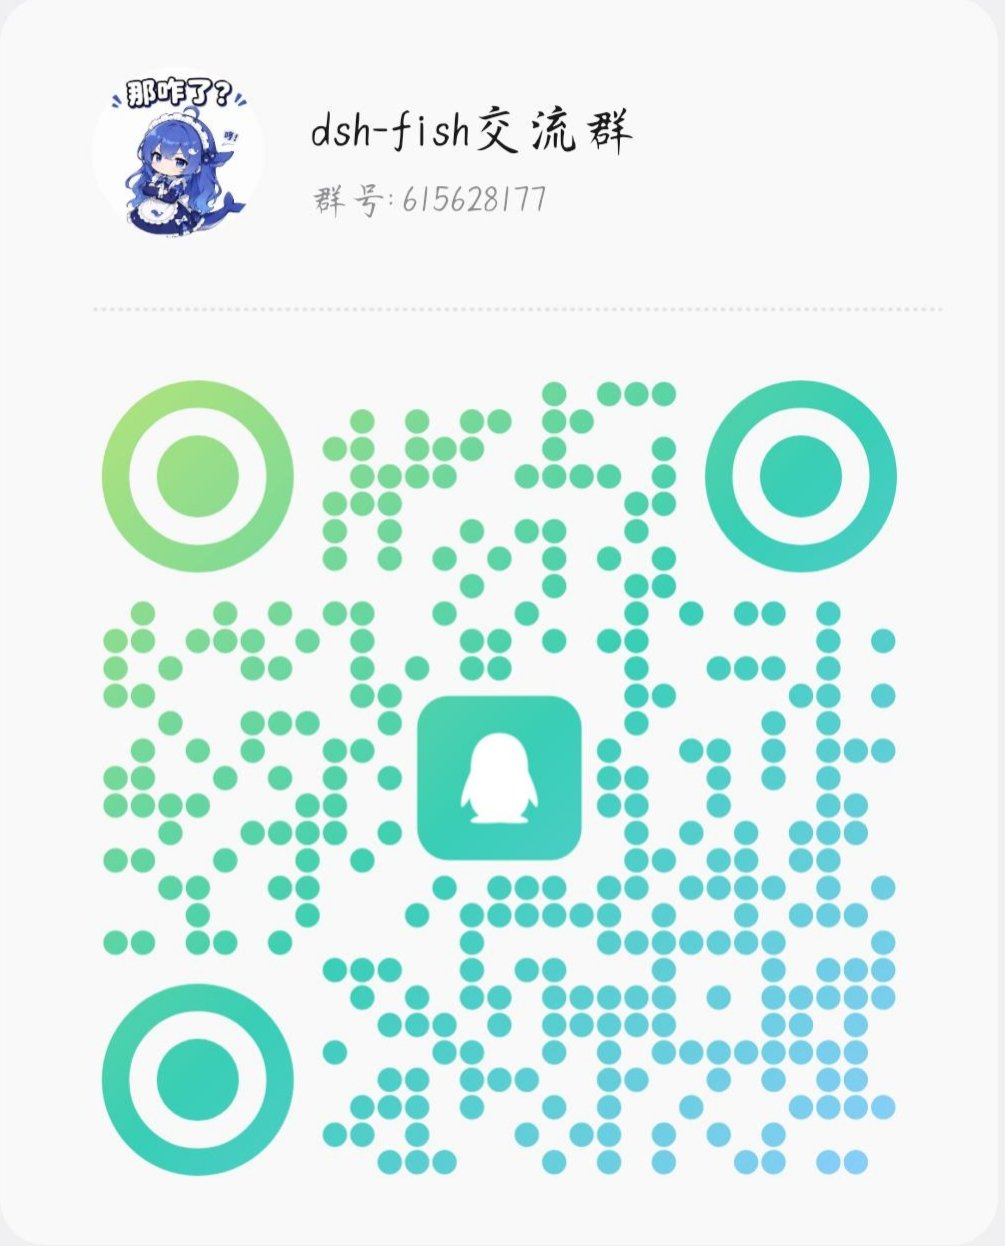
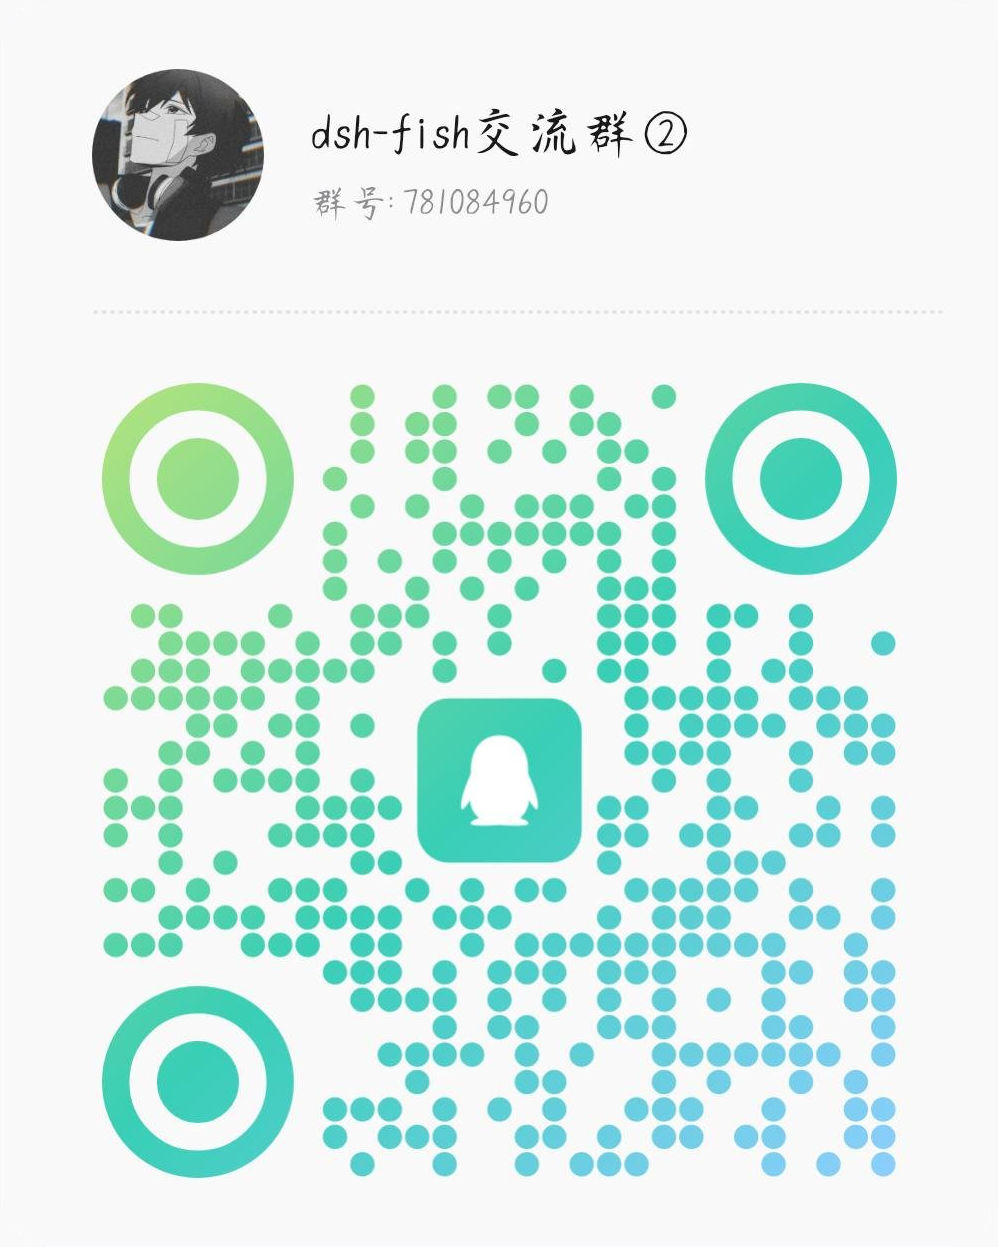
反馈页换成 2 群：新二维码 + 群号 781084960
1 群满了，用户在 2026-11-02 发了新建的 2 群截图。

- media/feedback-qr.jpg：从 1228x2183 的原图里裁出中间的白色卡片
  （实测边界 x 115..1112、y 357..1603 —— 998x1247，比例 0.8003，
  与旧图的 0.8066 基本一致），体积 148060 B（旧图 115230 B）。
  圆角那 47px 原本露着底板灰（240,240,242），按圆角遮罩抹成卡片色
  （249,249,249），四角现在与卡面同色。顺带修掉旧图的老毛病：
  旧图四角也是灰的，而页面上给 img 的 border-radius 只有 10px、
  比图片自带的圆角小，所以一圈灰边会露出来。
- lib/client.js:「群号：615628177」→「群号：781084960」。
- test/ui.test.mjs：那条「群号要在页面上」的断言跟着改，
  否则群号一换测试就红。
- CHANGELOG：0.8.6 顶部那句「一件事」改成「三件事」，补两小节——
  「扫码点下去没反应时，界面上得说一句为什么」和「交流群换到 2 群了」。

文件名仍是 feedback-qr.jpg —— /media 是白名单路由
（lib/observe.js:860 的枚举正则），不能新增文件名。

diff --git a/dsh-fish/lib/client.js b/dsh-fish/lib/client.js
@@ -2962,8 +2962,9 @@ window.__ModuleLoader__.load({
                 border: '0.5px solid var(--dsw-alias-border-l2)',
               },
             }),
+            // 2026-11-02：1 群满了，换成新建的 2 群（群号 781084960）。
             h('div', { className: 'hint', style: { margin: '10px 0 0' } },
-              '群号：615628177 —— 二维码扫不出来就搜这个号。'))))
+              '群号：781084960 —— 二维码扫不出来就搜这个号。'))))
 
       // 顺序是用户定的：①手上能用什么 ②为什么默认只放这几个 ③关于（版本 / 检查更新 / GitHub）。
       // 「关于」放最后——它是这个页的收尾，不是打开就要看的东西。

diff --git a/dsh-fish/CHANGELOG.md b/dsh-fish/CHANGELOG.md
@@ -1,6 +1,6 @@
 ## 0.8.6 — 2026-11-01
 
-一件事：**登录不用再去浏览器里翻 F12 抄 SESSDATA 了**。设置页里点「用手机扫码登录」，手机 B 站扫一下，浮层里先问一句「就是这个号吗」，你点了才算数。
+三件事：**登录不用再去浏览器里翻 F12 抄 SESSDATA 了**（设置页里点「用手机扫码登录」，手机 B 站扫一下，浮层里先问一句「就是这个号吗」，你点了才算数）；**扫不出码时界面会说为什么**，不再点了没反应；**交流群换到 2 群了**（1 群满了）。
 
 ### 扫码登录：手机扫一下就行（2026-11-01，社区贡献 @Bacon-01）
 
@@ -20,6 +20,20 @@
 **接口**（都在宿主的 `/dsh-fish` 前缀下）：`POST /bili/qr` 换一张码，`GET /bili/qr/status?key=` 问一次状态，`POST /bili/qr/save` 确认保存，`POST /bili/qr/drop` 丢弃。页面从头到尾拿不到 cookie 原文——`status` 只回 `{state, account:{mid,name}, canWrite, note}`，cookie 在宿主里拼好、直接写盘。
 
 **测试：** `test/qr.test.mjs` 6 条（基准矩阵、定点图案、SVG 自包含且不带外链）、`test/biliqr.test.mjs` 17 条（假 fetch 走完 86101 → 86090 → 0、没确认不准存、过期、Set-Cookie 缺 SESSDATA、没 bili_jct 只能看、风控 -412 时认不出号但 cookie 照样收下、1 秒内不许连开两张、最多同时攥 3 张、路由层一条龙），`test/owner.test.mjs` 新增 1 条（清除时 cookie 与 account 一起清，领养人不动）。`node --test` 1148 条全绿。
+
+### 扫码点下去没反应时，界面上得说一句为什么（2026-11-02）
+
+**你会看到：** 点「用手机扫码登录」如果码没出来，现在会弹出浮层、标题写「没拿到二维码」、中间一块虚线框写「码没生成出来」、下面一行红字说原因，按钮变成「再试一次」。最常见的那个原因会直说：「宿主还没加载这一版插件（多半是没重启）。完全退出 DSH 再打开，然后重新点一次。」
+
+**为什么原来像没反应：** 生成失败的 catch 只往卡片里塞一行灰色小字，浮层根本不弹——点了之后屏幕上什么都不动，看着就是按钮坏了。同时又有一处 `jpost('/bili/qr/drop').catch(() => {})` 把 404 吃得干干净净，连 console 都不留痕，于是既没有画面线索也没有日志线索。现在失败一律开浮层说话，丢弃失败也会 `console.warn`。
+
+**测试：** `test/biliqr.test.mjs`、`test/qr.test.mjs`、`test/owner.test.mjs` 41 条、`test/client.test.mjs` 27 条，`node --test` 1148 条全绿。
+
+### 交流群换到 2 群了（2026-11-02）
+
+**你会看到：** 反馈页那张群二维码换成了「dsh-fish 交流群②」，下面那行字变成「群号：781084960」。1 群满了，进不去的往这走。
+
+**顺手修的：** 旧图四角原本留着一圈灰——截图裁出来时四角是灰底板，而页面上给图片的圆角（10px）比图片自带的圆角小，遮不住。新图按圆角遮罩把四角抹成了卡片色（249,249,249），跟卡面同一个颜色，看不出接缝。尺寸从 1005x1246 变成 998x1247（比例 0.8003 vs 0.8066，一样）。
 
 ## 0.8.5 — 2026-11-01
 
